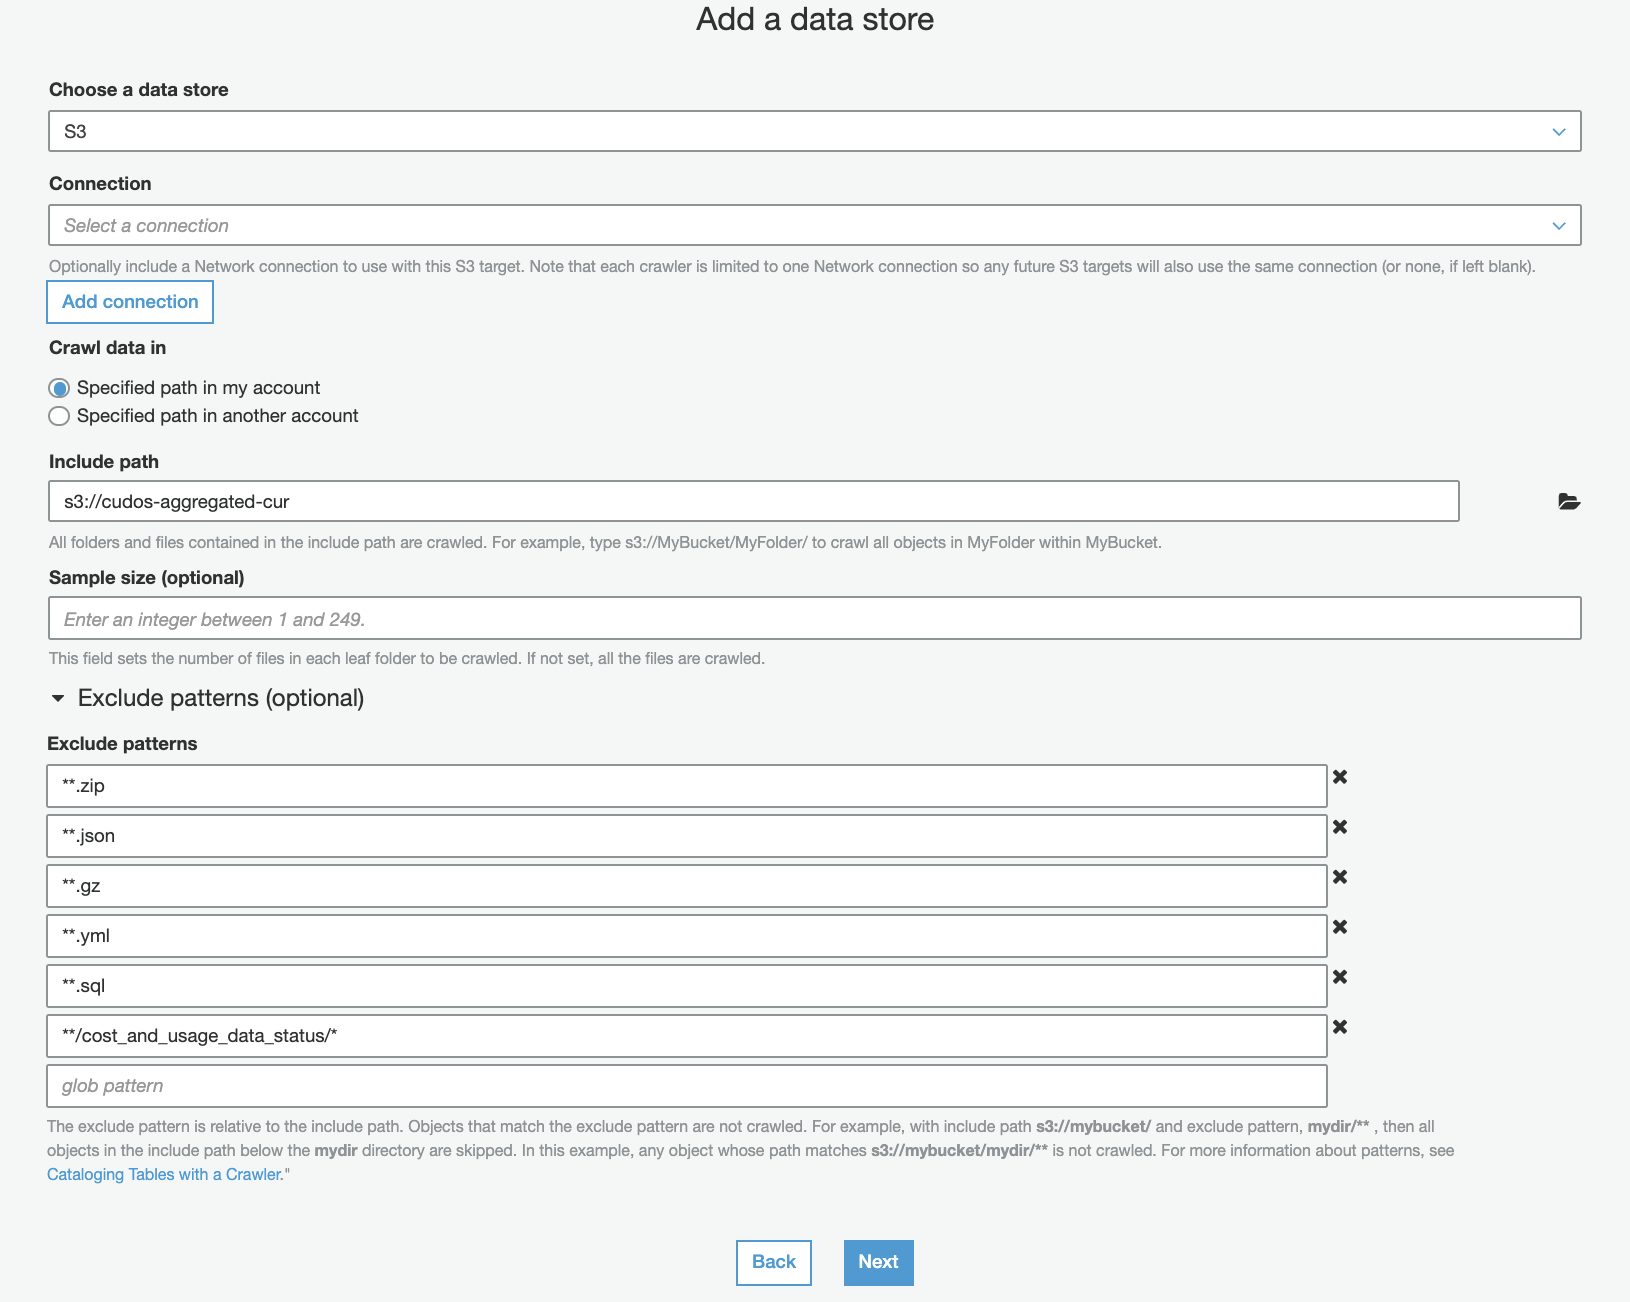
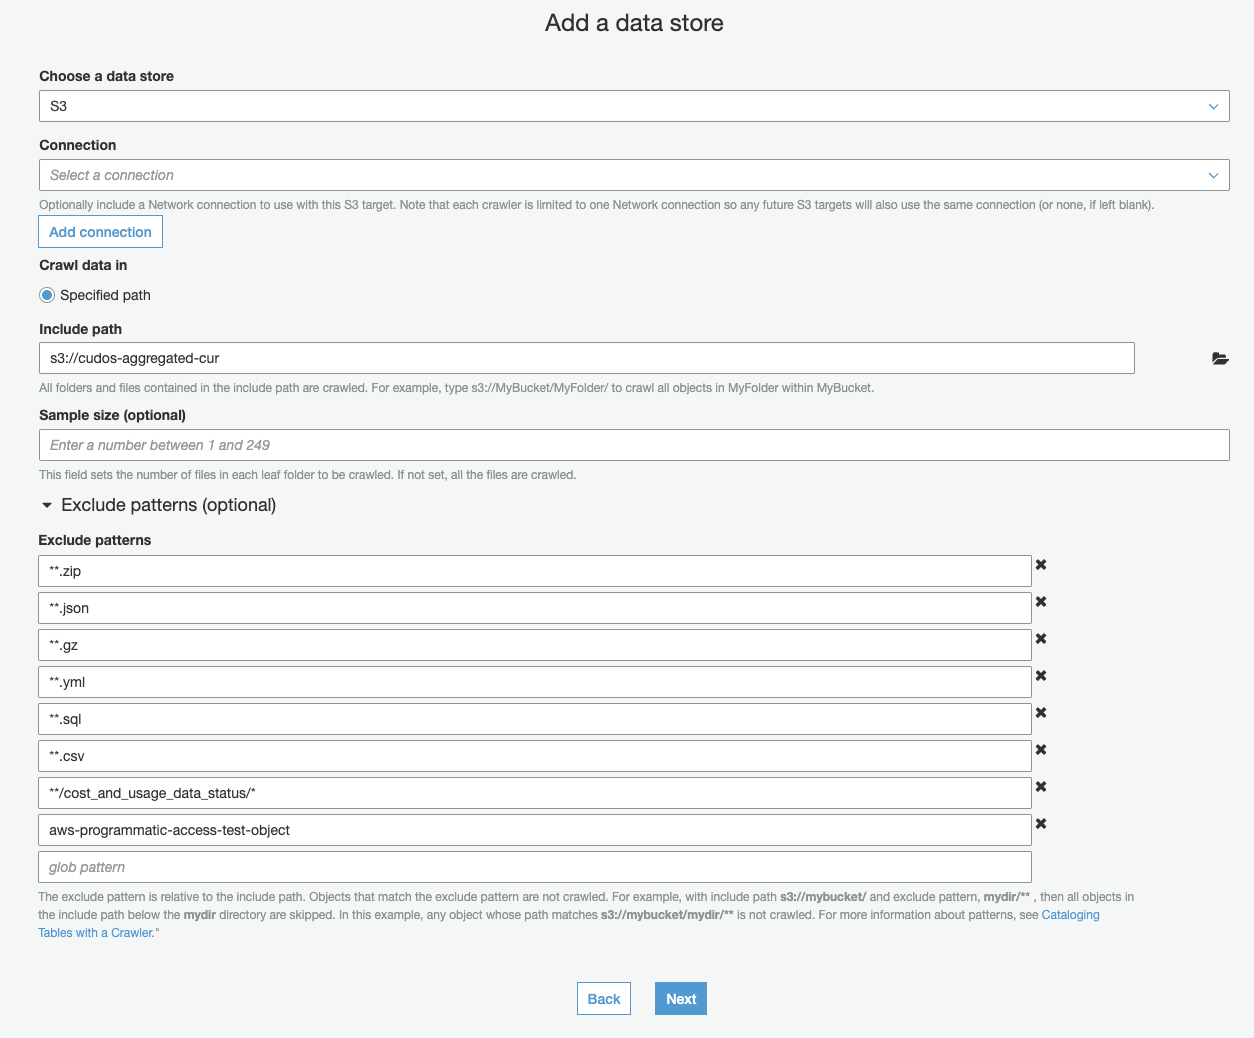
added aws-programmatic-access-test-object to glue crawler exclusions to make sure single table created by the crawler

diff --git a/content/Cost/200_Labs/200_Cloud_Intelligence/FAQ/_index.md b/content/Cost/200_Labs/200_Cloud_Intelligence/FAQ/_index.md
@@ -118,7 +118,7 @@ These actions should be done in Governance account
 
 ![Images/glue_1.png](/Cost/200_Cloud_Intelligence/Images/glue_1.png?classes=lab_picture_small)
 
-5. In Add a data store select S3 bucket name with aggregated CUR data and add following exclusions **.zip, **.json, **.gz, **.yml, **sql, **csv, **/cost_and_usage_data_status/*. Click Next
+5. In Add a data store select S3 bucket name with aggregated CUR data and add following exclusions **.zip, **.json, **.gz, **.yml, **.sql, **.csv, **/cost_and_usage_data_status/*, aws-programmatic-access-test-object. Click Next
 
 ![Images/glue_2.png](/Cost/200_Cloud_Intelligence/Images/glue_2.png?classes=lab_picture_small)
 
